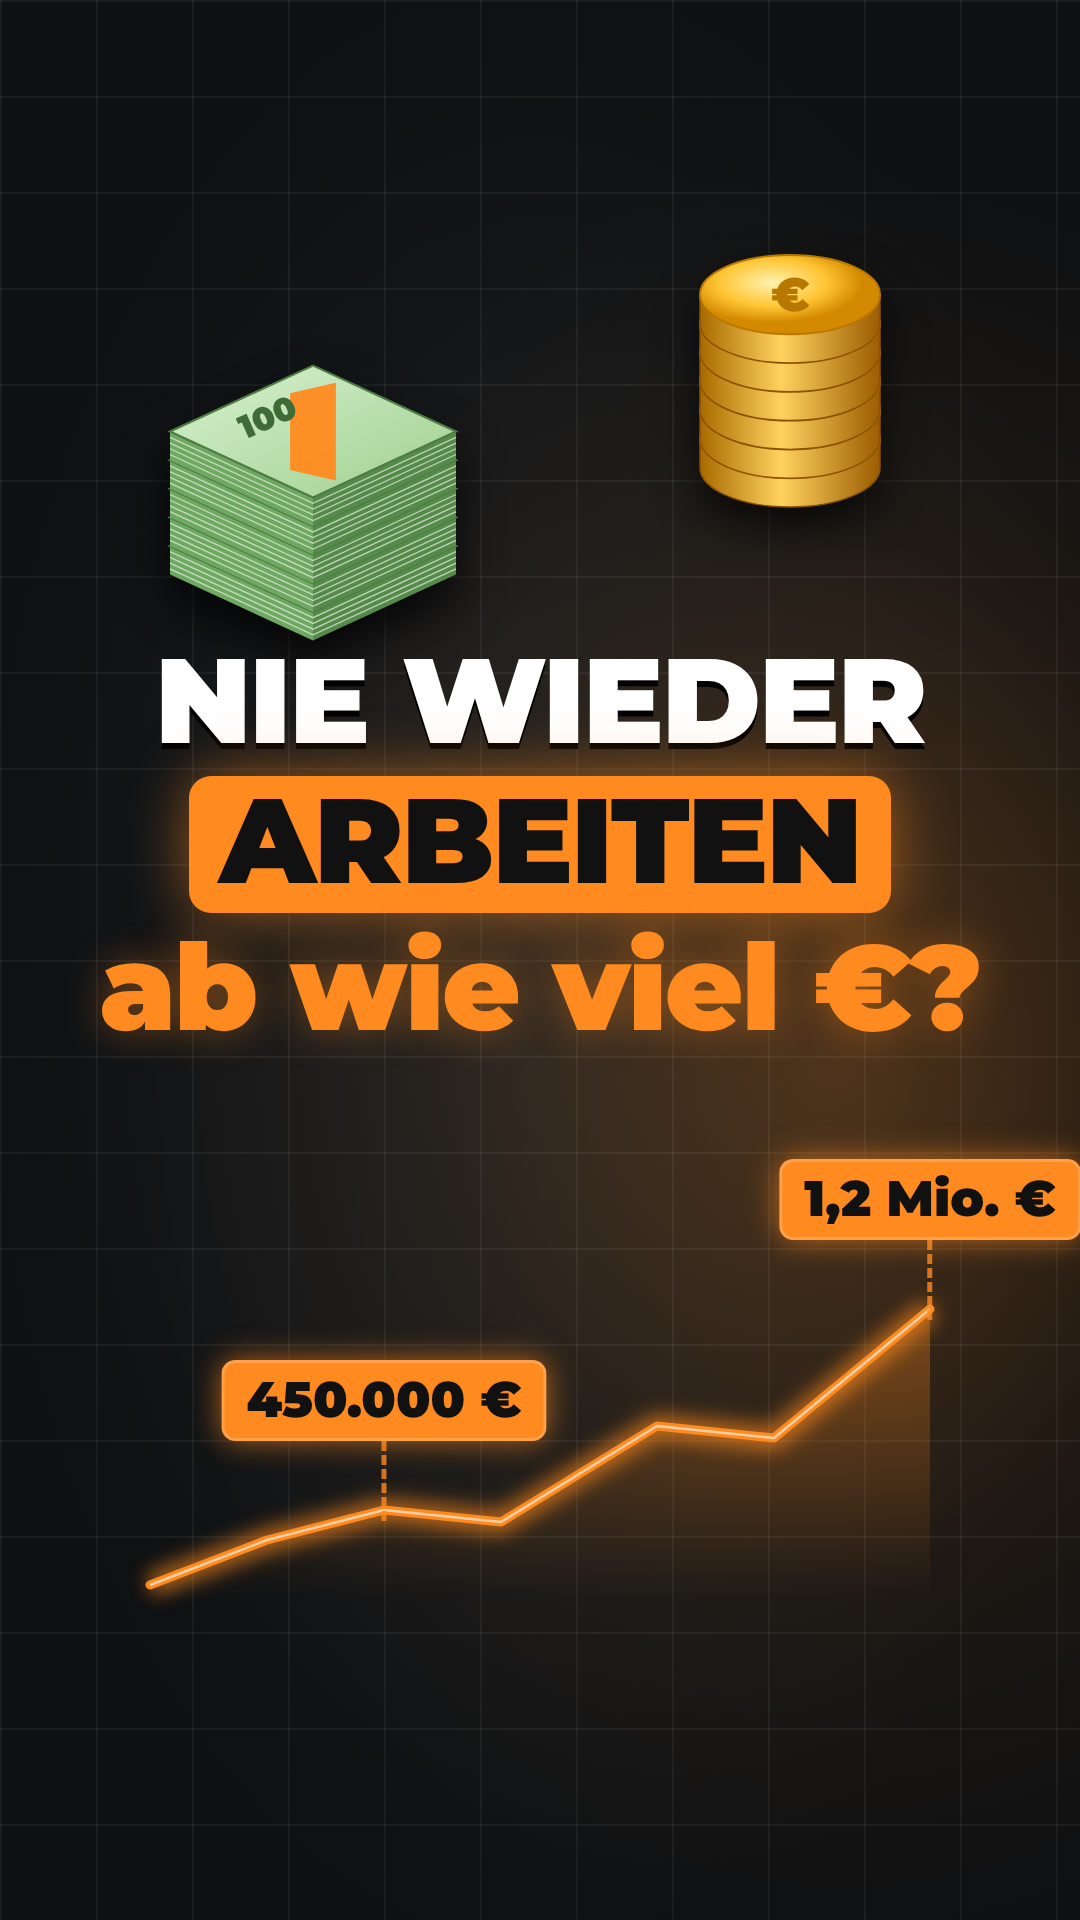
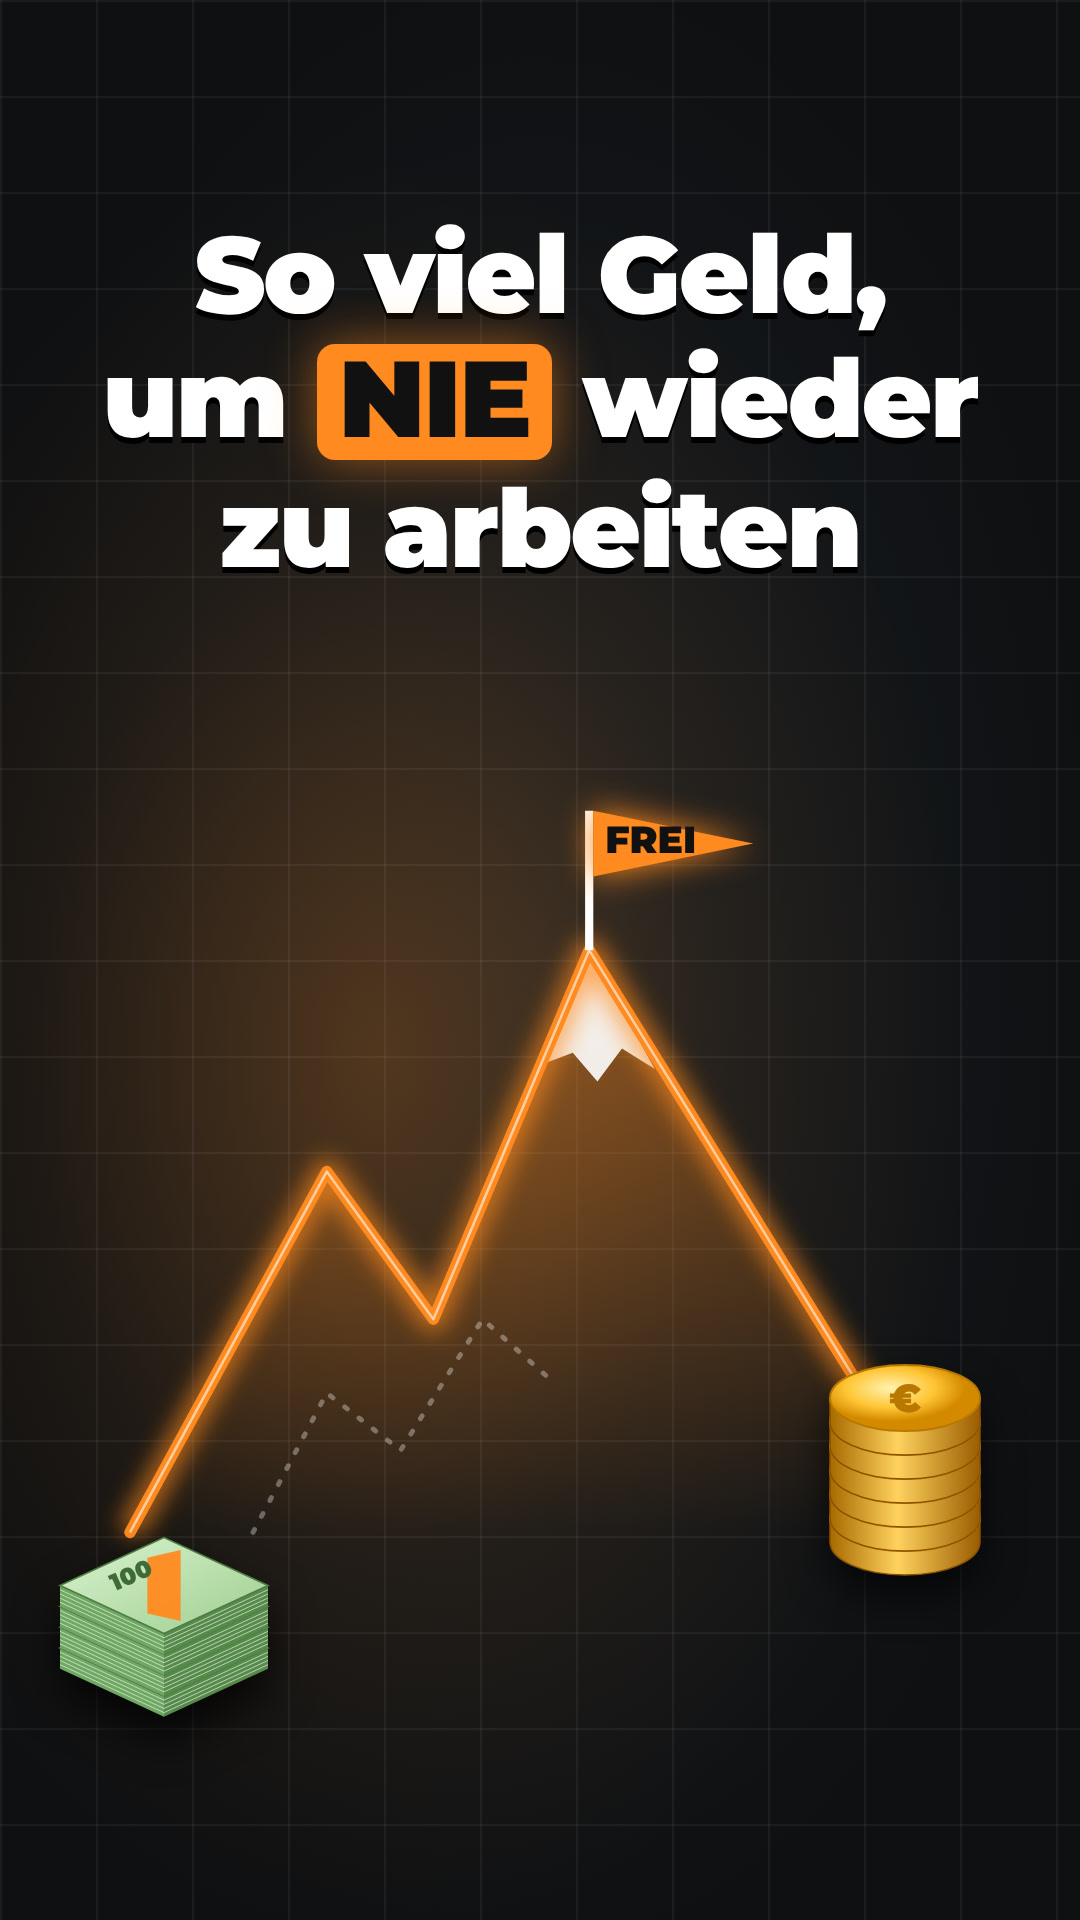
Freiheit: Thumbnail + Cover im Dark-Glow-Stil (ohne Pfote)
Claude-Session: https://claude.ai/code/session_01XBnSHJxa6BBKhWdF9iTPXU

diff --git a/videos/thumbs-freiheit/index.html b/videos/thumbs-freiheit/index.html
@@ -1,14 +1,14 @@
 <!doctype html>
-<html lang="de" data-resolution="portrait">
+<html lang="de" data-resolution="landscape">
   <head>
     <meta charset="UTF-8" />
-    <meta name="viewport" content="width=1080, height=1920" />
+    <meta name="viewport" content="width=1920, height=1080" />
     <script src="assets/gsap.min.js"></script>
     <style>
       * { margin: 0; padding: 0; box-sizing: border-box; }
-      html, body { width: 1080px; height: 1920px; overflow: hidden; background: #0e1012; }
+      html, body { width: 1920px; height: 1080px; overflow: hidden; background: #0e1012; }
       #root { position: relative; width: 100%; height: 100%; font-family: Montserrat, sans-serif; overflow: hidden;
-        background: radial-gradient(ellipse at 78% 55%, #ff8a1f40 0%, #ff8a1f10 35%, transparent 60%),
+        background: radial-gradient(ellipse at 35% 55%, #ff8a1f40 0%, #ff8a1f10 35%, transparent 60%),
                     radial-gradient(ellipse at 50% 50%, #1b1f22 0%, #0e1012 75%); }
       #raster { position: absolute; inset: 0; background-image: linear-gradient(#ffffff0d 2px, transparent 2px), linear-gradient(90deg, #ffffff0d 2px, transparent 2px);
         background-size: 96px 96px; }
@@ -16,9 +16,9 @@
     </style>
   </head>
   <body>
-    <div id="root" data-composition-id="main" data-start="0" data-duration="1" data-width="1080" data-height="1920">
+    <div id="root" data-composition-id="main" data-start="0" data-duration="1" data-width="1920" data-height="1080">
       <div id="raster"></div>
-<div id="v0" class="scene clip" data-start="0" data-duration="1" data-track-index="1"><svg viewBox="0 -60 260 300" style="position:absolute;left:170px;top:260px;width:286.0px;height:330.0px;overflow:visible;filter:drop-shadow(0 24px 22px #000b);z-index:2"><defs><linearGradient id="b7t" x1="0" y1="0" x2="1" y2="1"><stop offset="0" stop-color="#d9f2d0"/><stop offset="1" stop-color="#9fcf8f"/></linearGradient></defs><polygon points="0,200 130.0,260.0 130.0,286.0 0,226" fill="#6fa862"/><polygon points="260,200 130.0,260.0 130.0,286.0 260,226" fill="#558a4a"/><path d="M0 205.2 L130.0 265.2 L260 205.2" fill="none" stroke="#e8f5e2" stroke-width="1.2" opacity="0.7"/><path d="M0 210.4 L130.0 270.4 L260 210.4" fill="none" stroke="#e8f5e2" stroke-width="1.2" opacity="0.7"/><path d="M0 215.6 L130.0 275.6 L260 215.6" fill="none" stroke="#e8f5e2" stroke-width="1.2" opacity="0.7"/><path d="M0 220.8 L130.0 280.8 L260 220.8" fill="none" stroke="#e8f5e2" stroke-width="1.2" opacity="0.7"/><polygon points="0,200 130.0,140.0 260,200 130.0,260.0" fill="url(#b7t)" stroke="#4d7d43" stroke-width="2"/><polygon points="0,174 130.0,234.0 130.0,260.0 0,200" fill="#6fa862"/><polygon points="260,174 130.0,234.0 130.0,260.0 260,200" fill="#558a4a"/><path d="M0 179.2 L130.0 239.2 L260 179.2" fill="none" stroke="#e8f5e2" stroke-width="1.2" opacity="0.7"/><path d="M0 184.4 L130.0 244.4 L260 184.4" fill="none" stroke="#e8f5e2" stroke-width="1.2" opacity="0.7"/><path d="M0 189.6 L130.0 249.6 L260 189.6" fill="none" stroke="#e8f5e2" stroke-width="1.2" opacity="0.7"/><path d="M0 194.8 L130.0 254.8 L260 194.8" fill="none" stroke="#e8f5e2" stroke-width="1.2" opacity="0.7"/><polygon points="0,174 130.0,114.0 260,174 130.0,234.0" fill="url(#b7t)" stroke="#4d7d43" stroke-width="2"/><polygon points="0,148 130.0,208.0 130.0,234.0 0,174" fill="#6fa862"/><polygon points="260,148 130.0,208.0 130.0,234.0 260,174" fill="#558a4a"/><path d="M0 153.2 L130.0 213.2 L260 153.2" fill="none" stroke="#e8f5e2" stroke-width="1.2" opacity="0.7"/><path d="M0 158.4 L130.0 218.4 L260 158.4" fill="none" stroke="#e8f5e2" stroke-width="1.2" opacity="0.7"/><path d="M0 163.6 L130.0 223.6 L260 163.6" fill="none" stroke="#e8f5e2" stroke-width="1.2" opacity="0.7"/><path d="M0 168.8 L130.0 228.8 L260 168.8" fill="none" stroke="#e8f5e2" stroke-width="1.2" opacity="0.7"/><polygon points="0,148 130.0,88.0 260,148 130.0,208.0" fill="url(#b7t)" stroke="#4d7d43" stroke-width="2"/><polygon points="0,122 130.0,182.0 130.0,208.0 0,148" fill="#6fa862"/><polygon points="260,122 130.0,182.0 130.0,208.0 260,148" fill="#558a4a"/><path d="M0 127.2 L130.0 187.2 L260 127.2" fill="none" stroke="#e8f5e2" stroke-width="1.2" opacity="0.7"/><path d="M0 132.4 L130.0 192.4 L260 132.4" fill="none" stroke="#e8f5e2" stroke-width="1.2" opacity="0.7"/><path d="M0 137.6 L130.0 197.6 L260 137.6" fill="none" stroke="#e8f5e2" stroke-width="1.2" opacity="0.7"/><path d="M0 142.8 L130.0 202.8 L260 142.8" fill="none" stroke="#e8f5e2" stroke-width="1.2" opacity="0.7"/><polygon points="0,122 130.0,62.0 260,122 130.0,182.0" fill="url(#b7t)" stroke="#4d7d43" stroke-width="2"/><polygon points="0,96 130.0,156.0 130.0,182.0 0,122" fill="#6fa862"/><polygon points="260,96 130.0,156.0 130.0,182.0 260,122" fill="#558a4a"/><path d="M0 101.2 L130.0 161.2 L260 101.2" fill="none" stroke="#e8f5e2" stroke-width="1.2" opacity="0.7"/><path d="M0 106.4 L130.0 166.4 L260 106.4" fill="none" stroke="#e8f5e2" stroke-width="1.2" opacity="0.7"/><path d="M0 111.6 L130.0 171.6 L260 111.6" fill="none" stroke="#e8f5e2" stroke-width="1.2" opacity="0.7"/><path d="M0 116.8 L130.0 176.8 L260 116.8" fill="none" stroke="#e8f5e2" stroke-width="1.2" opacity="0.7"/><polygon points="0,96 130.0,36.0 260,96 130.0,156.0" fill="url(#b7t)" stroke="#4d7d43" stroke-width="2"/><polygon points="109.2,61.2 150.79999999999998,51.6 150.79999999999998,140.4 109.2,130.8" fill="#ff8a1f" opacity="0.95"/><text x="65.0" y="104" font-family="Montserrat" font-weight="900" font-size="30" fill="#3f6b36" transform="rotate(-24 65.0 96)">100</text></svg><svg viewBox="0 0 180 262.0" style="position:absolute;left:700px;top:250px;width:180px;height:262.0px;overflow:visible;filter:drop-shadow(0 20px 20px #000a);z-index:2"><defs><linearGradient id="m8s" x1="0" x2="1"><stop offset="0" stop-color="#a86a00"/><stop offset="0.45" stop-color="#ffd25e"/><stop offset="1" stop-color="#9a5c00"/></linearGradient><radialGradient id="m8t" cx="0.4" cy="0.35"><stop offset="0" stop-color="#fff2b0"/><stop offset="0.6" stop-color="#ffc533"/><stop offset="1" stop-color="#d48a00"/></radialGradient></defs><path d="M0 188.6 L0 217.4 A90.0 39.6 0 0 0 180 217.4 L180 188.6 Z" fill="url(#m8s)" stroke="#8a5200" stroke-width="1.5"/><ellipse cx="90.0" cy="188.6" rx="90.0" ry="39.6" fill="url(#m8t)" stroke="#b87800" stroke-width="2"/><path d="M0 159.79999999999998 L0 188.6 A90.0 39.6 0 0 0 180 188.6 L180 159.79999999999998 Z" fill="url(#m8s)" stroke="#8a5200" stroke-width="1.5"/><ellipse cx="90.0" cy="159.79999999999998" rx="90.0" ry="39.6" fill="url(#m8t)" stroke="#b87800" stroke-width="2"/><path d="M0 131.0 L0 159.8 A90.0 39.6 0 0 0 180 159.8 L180 131.0 Z" fill="url(#m8s)" stroke="#8a5200" stroke-width="1.5"/><ellipse cx="90.0" cy="131.0" rx="90.0" ry="39.6" fill="url(#m8t)" stroke="#b87800" stroke-width="2"/><path d="M0 102.2 L0 131.0 A90.0 39.6 0 0 0 180 131.0 L180 102.2 Z" fill="url(#m8s)" stroke="#8a5200" stroke-width="1.5"/><ellipse cx="90.0" cy="102.2" rx="90.0" ry="39.6" fill="url(#m8t)" stroke="#b87800" stroke-width="2"/><path d="M0 73.4 L0 102.2 A90.0 39.6 0 0 0 180 102.2 L180 73.4 Z" fill="url(#m8s)" stroke="#8a5200" stroke-width="1.5"/><ellipse cx="90.0" cy="73.4" rx="90.0" ry="39.6" fill="url(#m8t)" stroke="#b87800" stroke-width="2"/><path d="M0 44.60000000000001 L0 73.4 A90.0 39.6 0 0 0 180 73.4 L180 44.60000000000001 Z" fill="url(#m8s)" stroke="#8a5200" stroke-width="1.5"/><ellipse cx="90.0" cy="44.60000000000001" rx="90.0" ry="39.6" fill="url(#m8t)" stroke="#b87800" stroke-width="2"/><text x="90.0" y="60.80000000000001" text-anchor="middle" font-family="Montserrat" font-weight="900" font-size="46.800000000000004" fill="#b87800">€</text></svg><div style="position:absolute;left:0px;top:640px;width:1080px;font-weight:900;font-size:120px;line-height:1.02;letter-spacing:-2px;text-align:center;display:flex;flex-direction:column;gap:14px;z-index:3"><div style="color:#fff;text-shadow:0 6px 0 #000">NIE WIEDER</div><div><span style="display:inline-block;padding:4px 30px 10px;border-radius:22px;background:#ff8a1f;color:#111;box-shadow:0 0 60px #ff8a1f88">ARBEITEN</span></div><div style="color:#ff8a1f;text-shadow:0 0 40px #ff8a1f66">ab wie viel €?</div></div><svg viewBox="0 0 780 300" style="position:absolute;left:150px;top:1300px;width:780px;height:300px;overflow:visible;z-index:1"><defs><linearGradient id="c9g" x1="0" y1="0" x2="0" y2="1"><stop offset="0" stop-color="#ff8a1f" stop-opacity="0.35"/><stop offset="1" stop-color="#ff8a1f" stop-opacity="0"/></linearGradient><filter id="c9f" x="-20%" y="-20%" width="140%" height="140%"><feGaussianBlur stdDeviation="10"/></filter></defs><path d="M0 285 L117 240 L234 210 L351 222 L507 126 L624 138 L780 9 L780 300 L0 300 Z" fill="url(#c9g)"/><path d="M0 285 L117 240 L234 210 L351 222 L507 126 L624 138 L780 9" fill="none" stroke="#ff8a1f" stroke-width="22" stroke-linejoin="round" opacity="0.7" filter="url(#c9f)"/><path d="M0 285 L117 240 L234 210 L351 222 L507 126 L624 138 L780 9" fill="none" stroke="#ff8a1f" stroke-width="9" stroke-linejoin="round" stroke-linecap="round"/><path d="M0 285 L117 240 L234 210 L351 222 L507 126 L624 138 L780 9" fill="none" stroke="#fff" stroke-width="2.5" stroke-linejoin="round" opacity="0.6"/></svg><div style="position:absolute;left:384.0px;top:1360.0px;transform:translateX(-50%);z-index:2;display:flex;flex-direction:column;align-items:center"><div style="padding:6px 22px 8px;border-radius:14px;background:#ff8a1f;color:#111;font-weight:900;font-size:50px;white-space:nowrap;box-shadow:0 0 30px #ff8a1faa;border:3px solid #fff3">450.000 €</div><div style="width:0;height:80px;border-left:5px dashed #ff8a1f;opacity:0.8"></div></div><div style="position:absolute;left:930px;top:1159.0px;transform:translateX(-50%);z-index:2;display:flex;flex-direction:column;align-items:center"><div style="padding:6px 22px 8px;border-radius:14px;background:#ff8a1f;color:#111;font-weight:900;font-size:50px;white-space:nowrap;box-shadow:0 0 30px #ff8a1faa;border:3px solid #fff3">1,2 Mio. €</div><div style="width:0;height:80px;border-left:5px dashed #ff8a1f;opacity:0.8"></div></div></div>
+<div id="v0" class="scene clip" data-start="0" data-duration="1" data-track-index="1"><svg viewBox="0 0 1000 820" style="position:absolute;left:60px;top:200px;width:880px;height:721.5999999999999px;overflow:visible;z-index:2"><defs><linearGradient id="bf" x1="0" y1="0" x2="0" y2="1"><stop offset="0" stop-color="#ff8a1f" stop-opacity="0.6"/><stop offset="1" stop-color="#ff8a1f" stop-opacity="0"/></linearGradient><filter id="bg" x="-20%" y="-20%" width="140%" height="140%"><feGaussianBlur stdDeviation="14"/></filter></defs><path d="M0 820 L240 380 L370 560 L560 110 L1000 820 Z" fill="url(#bf)"/><path d="M500 250 L560 110 L640 255 L600 230 L570 270 L540 235 Z" fill="#fff" opacity="0.9"/><path d="M0 820 L240 380 L370 560 L560 110 L1000 820" fill="none" stroke="#ff8a1f" stroke-width="30" stroke-linejoin="round" opacity="0.7" filter="url(#bg)"/><path d="M0 820 L240 380 L370 560 L560 110 L1000 820" fill="none" stroke="#ff8a1f" stroke-width="14" stroke-linejoin="round" stroke-linecap="round"/><path d="M0 820 L240 380 L370 560 L560 110 L1000 820" fill="none" stroke="#fff" stroke-width="3" stroke-linejoin="round" opacity="0.6"/><path d="M150 820 L240 650 L330 720 L430 560 L520 640" fill="none" stroke="#ffffff55" stroke-width="6" stroke-dasharray="4 18" stroke-linecap="round"/><line x1="560" y1="110" x2="560" y2="-60" stroke="#fff" stroke-width="10"/><path d="M565 -60 L760 -20 L565 20 Z" fill="#ff8a1f" filter="drop-shadow(0 0 20px #ff8a1f)"/><text x="635" y="-8" text-anchor="middle" font-family="Montserrat" font-weight="900" font-size="46" fill="#111">FREI</text></svg><svg viewBox="0 0 130 171.2" style="position:absolute;left:830px;top:800px;width:130px;height:171.2px;overflow:visible;filter:drop-shadow(0 20px 20px #000a);z-index:2"><defs><linearGradient id="m1s" x1="0" x2="1"><stop offset="0" stop-color="#a86a00"/><stop offset="0.45" stop-color="#ffd25e"/><stop offset="1" stop-color="#9a5c00"/></linearGradient><radialGradient id="m1t" cx="0.4" cy="0.35"><stop offset="0" stop-color="#fff2b0"/><stop offset="0.6" stop-color="#ffc533"/><stop offset="1" stop-color="#d48a00"/></radialGradient></defs><path d="M0 116.8 L0 137.6 A65.0 28.6 0 0 0 130 137.6 L130 116.8 Z" fill="url(#m1s)" stroke="#8a5200" stroke-width="1.5"/><ellipse cx="65.0" cy="116.8" rx="65.0" ry="28.6" fill="url(#m1t)" stroke="#b87800" stroke-width="2"/><path d="M0 96.0 L0 116.8 A65.0 28.6 0 0 0 130 116.8 L130 96.0 Z" fill="url(#m1s)" stroke="#8a5200" stroke-width="1.5"/><ellipse cx="65.0" cy="96.0" rx="65.0" ry="28.6" fill="url(#m1t)" stroke="#b87800" stroke-width="2"/><path d="M0 75.2 L0 96.0 A65.0 28.6 0 0 0 130 96.0 L130 75.2 Z" fill="url(#m1s)" stroke="#8a5200" stroke-width="1.5"/><ellipse cx="65.0" cy="75.2" rx="65.0" ry="28.6" fill="url(#m1t)" stroke="#b87800" stroke-width="2"/><path d="M0 54.39999999999999 L0 75.19999999999999 A65.0 28.6 0 0 0 130 75.19999999999999 L130 54.39999999999999 Z" fill="url(#m1s)" stroke="#8a5200" stroke-width="1.5"/><ellipse cx="65.0" cy="54.39999999999999" rx="65.0" ry="28.6" fill="url(#m1t)" stroke="#b87800" stroke-width="2"/><path d="M0 33.599999999999994 L0 54.39999999999999 A65.0 28.6 0 0 0 130 54.39999999999999 L130 33.599999999999994 Z" fill="url(#m1s)" stroke="#8a5200" stroke-width="1.5"/><ellipse cx="65.0" cy="33.599999999999994" rx="65.0" ry="28.6" fill="url(#m1t)" stroke="#b87800" stroke-width="2"/><text x="65.0" y="45.3" text-anchor="middle" font-family="Montserrat" font-weight="900" font-size="33.800000000000004" fill="#b87800">€</text></svg><div style="position:absolute;left:990px;top:300px;font-weight:900;font-size:104px;line-height:1.02;letter-spacing:-2px;text-align:left;display:flex;flex-direction:column;gap:14px;z-index:3"><div style="color:#fff;text-shadow:0 6px 0 #000">So viel Geld,</div><div style="color:#fff;text-shadow:0 6px 0 #000">um <span style="display:inline-block;padding:0 22px 6px;border-radius:18px;background:#ff8a1f;color:#111;text-shadow:none;box-shadow:0 0 50px #ff8a1f88">NIE</span> wieder</div><div style="color:#fff;text-shadow:0 6px 0 #000">zu arbeiten</div></div></div>
     </div>
     <script>
       const tl = gsap.timeline({ paused: true });

diff --git a/videos/thumbs-freiheit/build.py b/videos/thumbs-freiheit/build.py
@@ -1,36 +1,39 @@
 #!/usr/bin/env python3
-"""Thumbnails (1920×1080) + TikTok-Cover (1080×1920) für longform-freiheit – Stil „Dark Glow“ (scripts/thumbs.py).
-Aufruf: python3 build.py | python3 build.py tiktok   ·   Export: python3 ../../scripts/thumbs.py export . freiheit"""
+"""Thumbnail (1920×1080, YouTube) + Cover (1080×1920, TikTok/Instagram) für longform-freiheit – Stil „Dark Glow“.
+Aufruf: python3 build.py | python3 build.py tiktok"""
 import sys
 from pathlib import Path
 
 HERE = Path(__file__).parent
 sys.path.insert(0, str(HERE.parent.parent / "scripts"))
-from thumbs import OR, buendel, chart, muenzen, seite, titel  # noqa: E402
+from thumbs import OR, buendel, muenzen, seite, titel  # noqa: E402
 
-STEIG = [(0, 0.05), (0.15, 0.2), (0.3, 0.3), (0.45, 0.26), (0.65, 0.58), (0.8, 0.54), (1, 0.97)]
-GIPFEL = [(0.03, 0.05), (0.2, 0.45), (0.3, 0.28), (0.5, 0.66), (0.62, 0.48), (0.84, 0.96), (0.97, 0.75)]
+NIE = f'<span style="display:inline-block;padding:0 22px 6px;border-radius:18px;background:{OR};color:#111;text-shadow:none;box-shadow:0 0 50px {OR}88">NIE</span>'
 
-V1 = (titel([("NIE WIEDER", "w"), ("ARBEITEN", "box"), ("ab wie viel €?", "o")], 90, 70, 150)
-      + chart(STEIG, 330, 740, 1400, 250, OR, pills=[(2, "450.000 €"), (4, "750.000 €"), (6, "1,2 Mio. €")])
-      + buendel(1430, 40, 0.9, 5) + muenzen(1680, 150, 6, 140))
 
-V2 = (titel([("Ausgaben", "w"), ("× 25 =", "o"), ("FREIHEIT", "box")], 90, 110, 165)
-      + f'''<div style="position:absolute;left:1060px;top:200px;width:780px;padding:46px 50px;border-radius:44px;background:#16191b;border:4px solid {OR};
-             box-shadow:0 0 80px {OR}66, 0 30px 60px #000;z-index:2;display:flex;flex-direction:column;gap:14px">
-          <div style="font-weight:800;font-size:40px;color:#9aa3a8;letter-spacing:3px">BEISPIEL</div>
-          <div style="font-weight:900;font-size:66px;color:#fff;white-space:nowrap">2.500 € / Monat</div>
-          <div style="font-weight:800;font-size:56px;color:#9aa3a8">× 12 × 25</div>
-          <div style="font-weight:900;font-size:116px;line-height:1;white-space:nowrap;color:{OR};text-shadow:0 0 50px {OR}aa">750.000 €</div></div>'''
-      + muenzen(1040, 820, 4, 130) + buendel(1560, 840, 0.75, 3))
+def berg(x, y, w):
+    h = w * 0.82
+    kontur = "M0 820 L240 380 L370 560 L560 110 L1000 820"
+    return (f'<svg viewBox="0 0 1000 820" style="position:absolute;left:{x}px;top:{y}px;width:{w}px;height:{h}px;overflow:visible;z-index:2">'
+            f'<defs><linearGradient id="bf" x1="0" y1="0" x2="0" y2="1"><stop offset="0" stop-color="{OR}" stop-opacity="0.6"/><stop offset="1" stop-color="{OR}" stop-opacity="0"/></linearGradient>'
+            f'<filter id="bg" x="-20%" y="-20%" width="140%" height="140%"><feGaussianBlur stdDeviation="14"/></filter></defs>'
+            f'<path d="{kontur} Z" fill="url(#bf)"/>'
+            f'<path d="M500 250 L560 110 L640 255 L600 230 L570 270 L540 235 Z" fill="#fff" opacity="0.9"/>'
+            f'<path d="{kontur}" fill="none" stroke="{OR}" stroke-width="30" stroke-linejoin="round" opacity="0.7" filter="url(#bg)"/>'
+            f'<path d="{kontur}" fill="none" stroke="{OR}" stroke-width="14" stroke-linejoin="round" stroke-linecap="round"/>'
+            f'<path d="{kontur}" fill="none" stroke="#fff" stroke-width="3" stroke-linejoin="round" opacity="0.6"/>'
+            f'<path d="M150 820 L240 650 L330 720 L430 560 L520 640" fill="none" stroke="#ffffff55" stroke-width="6" stroke-dasharray="4 18" stroke-linecap="round"/>'
+            f'<line x1="560" y1="110" x2="560" y2="-60" stroke="#fff" stroke-width="10"/>'
+            f'<path d="M565 -60 L760 -20 L565 20 Z" fill="{OR}" filter="drop-shadow(0 0 20px {OR})"/>'
+            f'<text x="635" y="-8" text-anchor="middle" font-family="Montserrat" font-weight="900" font-size="46" fill="#111">FREI</text></svg>')
 
-V3 = (titel([("Welcher Gipfel", "w"), ("ist DEINER?", "box")], 90, 50, 130)
-      + chart(GIPFEL, 100, 440, 1720, 500, OR, pills=[(1, "450.000 €"), (3, "750.000 €"), (5, "1,2 Mio. €")]))
 
-TT = (buendel(160, 170, 1.0, 5) + muenzen(700, 250, 6, 180)
-      + titel([("NIE WIEDER", "w"), ("ARBEITEN", "box"), ("ab wie viel €?", "o")], 0, 640, 120, w=1080, align="center")
-      + chart(STEIG, 150, 1300, 780, 300, OR, pills=[(2, "450.000 €"), (6, "1,2 Mio. €")]))
+YT = (berg(60, 200, 880) + muenzen(830, 800, 5, 130)
+      + titel([("So viel Geld,", "w"), (f"um {NIE} wieder", "w"), ("zu arbeiten", "w")], 990, 300, 104))
+
+TT = (titel([("So viel Geld,", "w"), (f"um {NIE} wieder", "w"), ("zu arbeiten", "w")], 0, 220, 108, w=1080, align="center")
+      + berg(130, 860, 820) + muenzen(830, 1360, 6, 150) + buendel(60, 1440, 0.8, 4))
 
 if __name__ == "__main__":
     tiktok = sys.argv[1:2] == ["tiktok"]
-    seite(HERE, [TT] if tiktok else [V1, V2, V3], tiktok=tiktok)
+    seite(HERE, [TT] if tiktok else [YT], tiktok=tiktok, glow=("35%", "55%"))
